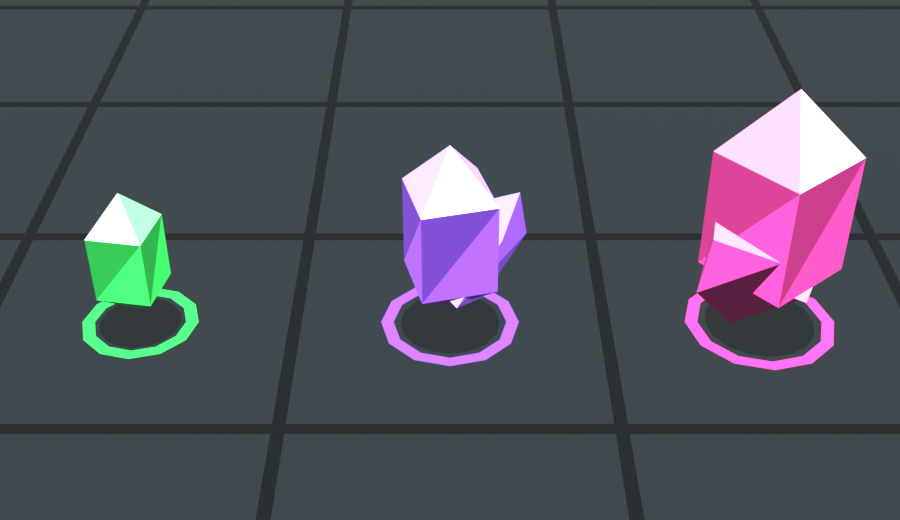
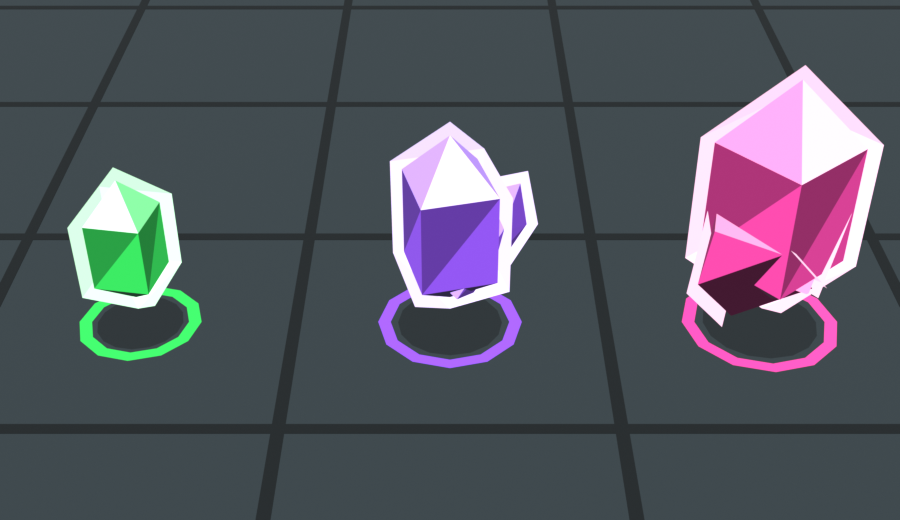
pit-art: XP gem outline as separate gem_rim_t1/2/3 inverted-hull meshes

Changed region(s): [[0.7467, 0.1231, 0.9956, 0.7385], [0.4044, 0.2154, 0.6222, 0.7077], [0.0622, 0.3077, 0.2489, 0.7077]]

diff --git a/pit-art/tools/gem.py b/pit-art/tools/gem.py
@@ -29,9 +29,10 @@ TIERS = [
     {"name": "t2", "hex": "#9C5BFF", "h": 0.46},
     {"name": "t3", "hex": "#FF4BAE", "h": 0.60},
 ]
+EMIT_SCALE = 3.0  # PitUnit multiplies uv.x by 3; the game currently scales art emissive by 0.4 (use 1.2 to match)
 LOUD = False  # louder variant: bigger, chunkier, brighter, with an outline rim and a floor ring
 RIM = False   # inverted-hull outline (doubles the tris; the concept sheet used it, the final B2 does not)
-RIM_W = 0.032  # outline shell thickness in cells
+RIM_W = 0.045  # outline shell thickness in cells (~2-3 px at phone size; 0.032 was a hairline, 0.06 looked like a glass shell)
 LIGHT = Vector((-0.35, -0.55, 0.76)).normalized()  # key light direction used to pick the glint facet
 
 
@@ -169,7 +170,7 @@ def paint(me, tier):
     for p in me.polygons:
         nz = p.normal.z
         if is_rim[p.index]:
-            c, e = mix(base, (1, 1, 1), 0.40), 1.0
+            c, e = mix(base, (1, 1, 1), 0.70), 1.0
         elif p.index == glint:
             c, e = mix(base, (1, 1, 1), 0.72), 0.55
         elif nz > 0.35:
@@ -196,7 +197,7 @@ def gem_material():
     ea.attribute_name = "Emit"
     mul = nt.nodes.new("ShaderNodeMath")
     mul.operation = "MULTIPLY"
-    mul.inputs[1].default_value = 3.0
+    mul.inputs[1].default_value = EMIT_SCALE
     nt.links.new(ca.outputs["Color"], bsdf.inputs["Base Color"])
     nt.links.new(ca.outputs["Color"], bsdf.inputs["Emission Color"])
     nt.links.new(ea.outputs["Fac"], mul.inputs[0])
@@ -344,6 +345,20 @@ def concepts(out, options):
             render(os.path.join(out, f"gem_{opt}{'_loud' if LOUD else ''}_{shot}.png"))
 
 
+def split_rim(me):
+    """Split a gem built with RIM into (crystal mesh, rim shell mesh) by the face attribute "rim"."""
+    rim = me.copy()
+    rim.name = me.name.replace("gem_", "gem_rim_")
+    for target, keep_rim in ((me, False), (rim, True)):
+        bm = bmesh.new()
+        bm.from_mesh(target)
+        layer = bm.faces.layers.int.get("rim")
+        bmesh.ops.delete(bm, geom=[f for f in bm.faces if bool(f[layer]) != keep_rim], context="FACES")
+        bm.to_mesh(target)
+        bm.free()
+    return me, rim
+
+
 def export(opt, out_dir):
     """One GLB holding six meshes: gem_t1..t3 (the crystals) and gem_ring_t1..t3 (floor rings).
     Vertex colour = COLOR_0 (per facet), uv.x = emissive strength 0-1 (PitUnit multiplies by 3)."""
@@ -353,7 +368,9 @@ def export(opt, out_dir):
     for t in range(3):
         gem = build(opt, t)
         gem.name = f"gem_{TIERS[t]['name']}"
-        for me in (gem, ring_mesh(gem, t)):
+        ring = ring_mesh(gem, t)
+        parts = list(split_rim(gem)) if RIM else [gem]
+        for me in parts + [ring]:
             me.color_attributes.active_color = me.color_attributes["Col"]
             uv = me.uv_layers.new(name="UVMap")
             for p in me.polygons:
@@ -382,10 +399,11 @@ def main():
     ap.add_argument("--export")
     ap.add_argument("--loud", action="store_true")
     ap.add_argument("--rim", action="store_true")
+    ap.add_argument("--emit-scale", type=float, default=3.0)
     a = ap.parse_args(sys.argv[sys.argv.index("--") + 1:] if "--" in sys.argv else [])
     os.makedirs(a.out, exist_ok=True)
-    global LOUD, RIM
-    LOUD, RIM = a.loud, a.rim
+    global LOUD, RIM, EMIT_SCALE
+    LOUD, RIM, EMIT_SCALE = a.loud, a.rim, a.emit_scale
     if a.export:
         export(a.export, os.path.join(ART, "models", "lowpoly"))
     else:

diff --git a/pit-art/models/lowpoly/GEM_INTEGRATION.md b/pit-art/models/lowpoly/GEM_INTEGRATION.md
@@ -1,25 +1,30 @@
 # XP gem: integration note
 
-The user picked design **B Cluster** from `concept/gem_options_loud.png`: one crystal for the small tier, two for the medium and three for the large. The final cut ("B2" in `tools/gem.py`) keeps the loud look (bigger, brighter, floor ring) but drops the outline shell to stay near 36 tris.
+The user picked design **B Cluster** from `concept/gem_options_loud.png`: one crystal for the small tier, two for the medium and three for the large. The final cut ("B2" in `tools/gem.py`) keeps the loud look: bigger, brighter, a floor ring and, after the user asked "需要描边" ("it needs an outline"), an outline shell in separate meshes.
 
 Previews: `_gem_xp_close.png`, `_gem_xp_game.png`. Rebuild with:
 
 ```
-blender -b -P tools/gem.py -- --out <tmp> --loud --export B2
+blender -b -P tools/gem.py -- --out <tmp> --loud --rim --export B2
 ```
 
 ## File
 
-`models/lowpoly/gem_xp.glb` holds six meshes, all untextured:
+`models/lowpoly/gem_xp.glb` holds nine meshes, all untextured:
 
 | Mesh | Tris | Unity verts | Height (cells) | Max radius (cells) |
 |---|---|---|---|---|
 | gem_t1 (value < 10) | 16 | 48 | 0.435 | 0.125 |
 | gem_t2 (value < 100) | 25 | 75 | 0.600 | 0.283 |
 | gem_t3 (value ≥ 100) | 34 | 102 | 0.784 | 0.369 |
-| gem_ring_t1 | 24 | 72 | flat, z 0.006 | outer 0.188 |
-| gem_ring_t2 | 24 | 72 | flat | outer 0.222 |
-| gem_ring_t3 | 24 | 72 | flat | outer 0.241 |
+| gem_rim_t1 | 16 | 48 | 0.525 | 0.168 |
+| gem_rim_t2 | 25 | 75 | 0.679 | 0.326 |
+| gem_rim_t3 | 34 | 102 | 0.859 | 0.413 |
+| gem_ring_t1 | 24 | 72 | flat, z 0.006 | outer 0.197 |
+| gem_ring_t2 | 24 | 72 | flat | outer 0.232 |
+| gem_ring_t3 | 24 | 72 | flat | outer 0.251 |
+
+All meshes share one origin. The rim shell's lowest point is z = 0; the crystal inside it starts at z = 0.045 / 0.033 / 0.030.
 
 - **Units are cells.** Blender is Z-up with the lowest point at z = 0. The glTF is Y-up, as for the enemies, so apply the same axis mapping you use for `enemy_*.glb`: the game's up is −z, standing on z = 0.
 - **Faces are already split** per facet; every vertex belongs to one face.
@@ -49,4 +54,10 @@ The rings are flat tier colour with emissive 0.5.
 - **Spin and bob:** keep the current values, 90°/s and 0.05 cell. Spin the crystal mesh only.
 - **Floor ring:** draw it at the gem's floor position. It must not bob with the gem. It may spin, since it is a circle. It replaces the dark contact disc. If you keep the disc as well, draw the ring on top of it.
 - **Visibility:** the loud look relies on brightness, not bloom. If bloom is on, a faint rim is fine, per style.md. The gem should still stay dimmer than the balls.
-- **Outline (optional):** the concept sheet showed a light outline. It is left out because an inverted-hull shell doubles the tris. If you want it anyway, `--rim` in gem.py adds it: about 32 / 50 / 68 tris.
+- **Outline:** `gem_rim_tN` is an inverted hull. Draw it with exactly the same transform as `gem_tN`, so it spins and bobs with the crystal.
+  - **Geometry:** a copy of the crystal pushed out 0.045 cells along the averaged vertex normals, about 2–3 px at phone size.
+  - **Winding:** every triangle is reversed. Its normals point inward and agree with the reversed winding, so a loader that flips meshes whose winding disagrees with their normals leaves it alone.
+  - **Culling:** with normal back-face culling, only the far side of the shell draws, which shows as a band around the silhouette.
+  - **Colour:** tier hue mixed 70 % to white. t1 #C4F9D0, t2 #E1CEFF, t3 #FFC9E7.
+  - **Emissive:** uv.x = 1.0. After ×3 and the game's ×0.4, that is 1.2. If the rim needs to pop more, leave the rim meshes out of the 0.4 scale.
+  - **Check image:** `_gem_xp_rim_check.png`, rendered with emissive ×1.2. Left is a close-up; right is the game view shrunk to about phone size.

diff --git a/pit-art/report.md b/pit-art/report.md
@@ -135,3 +135,4 @@ Clean room: I read only `ballpit-spec/style.md` and `ballpit-spec/spec.md` (arch
 - **Concepts:** four designs (A Shard, B Cluster, C Nugget, D Escalating cut), first quiet (`concept/gem_options.png`), then loud (`concept/gem_options_loud.png`): 28 % bigger, 20 % wider, brighter, with an outline and a floor ring. The loud pass followed the user's ask that the gem should loudly announce itself.
 - **The user picked B Cluster:** one crystal for the small tier, two for the medium and three for the large, coloured green, violet and pink.
 - **Final cut:** `models/lowpoly/gem_xp.glb`, 16 / 25 / 34 tris, plus a glowing floor ring per tier. The outline was dropped to stay near 36 tris. Integration details are in `models/lowpoly/GEM_INTEGRATION.md`.
+- **Outline added** after the user asked for one: separate `gem_rim_t1/2/3` inverted-hull meshes, 0.045 cells thick and near-white. Checked at phone size with the game's emissive scale (`models/lowpoly/_gem_xp_rim_check.png`).
